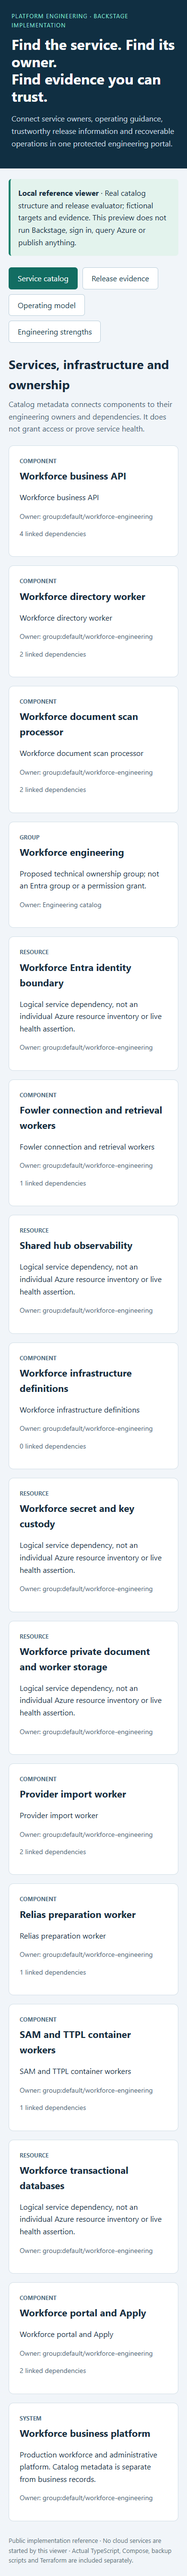
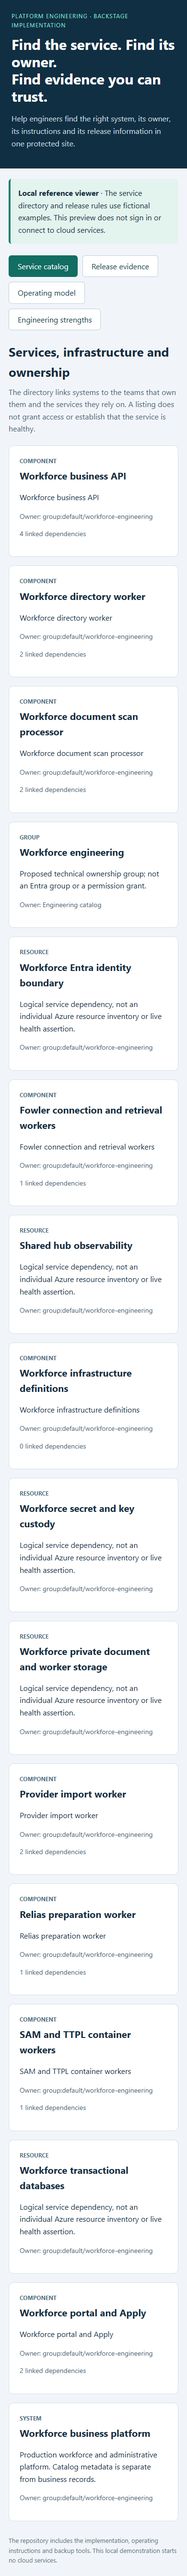
Lead with plain business explanations and retain technical detail separately

diff --git a/preview/index.html b/preview/index.html
@@ -1,6 +1,6 @@
 <!doctype html><html lang="en"><meta charset="utf-8"><meta name="viewport" content="width=device-width,initial-scale=1"><title>Engineering portal reference</title><style>
 *{box-sizing:border-box}body{margin:0;background:#f1f5f9;color:#172c3e;font:16px/1.6 system-ui,sans-serif}header{background:#102f42;color:white;padding:36px max(24px,calc((100vw - 1160px)/2))}header p{color:#c7d8e1;max-width:820px}h1{font-size:36px;line-height:1.2;margin:12px 0}main{max-width:1208px;margin:auto;padding:28px 24px}.tag{font-size:12px;letter-spacing:.09em;text-transform:uppercase;color:#89e2d1}.notice{background:#e3f3ed;border-left:4px solid #18816d;padding:16px;margin-bottom:24px;border-radius:6px}nav{display:flex;gap:10px;flex-wrap:wrap;margin:24px 0}button{font:inherit;border:1px solid #bdd0dc;background:white;color:#17394a;padding:9px 18px;border-radius:6px;cursor:pointer}button[aria-selected=true]{background:#126d62;color:white;border-color:#126d62}.cards{display:grid;grid-template-columns:repeat(3,1fr);gap:18px}.card{background:white;border:1px solid #d4e0e8;border-radius:10px;padding:22px;overflow-wrap:anywhere}.card h3{margin:5px 0 12px;font-size:20px}.kind{font-size:12px;font-weight:700;text-transform:uppercase;color:#4d6c7f}.meta{font-size:14px;color:#4b6474}.status{display:inline-block;padding:3px 10px;border-radius:20px;background:#e0f3e9;color:#186344;font-size:13px;font-weight:bold}.unknown{background:#edf0f3;color:#465866}.conflict{background:#fbe9e9;color:#913c3c}.stale{background:#fff1d6;color:#84601d}h2{margin:12px 0 8px;font-size:26px}.intro{color:#4b6474;margin:0 0 22px}.flow{display:flex;gap:12px;flex-wrap:wrap;align-items:center}.flow strong{background:#e6f2f3;padding:12px;border-radius:6px}footer{font-size:13px;color:#5d7380;margin-top:30px}section[hidden]{display:none}@media(max-width:850px){.cards{grid-template-columns:1fr 1fr}h1{font-size:30px}}@media(max-width:560px){.cards{grid-template-columns:1fr}header{padding:24px}main{padding:22px 18px}}
-</style><header><div class="tag">Platform engineering · Backstage implementation</div><h1>Find the service. Find its owner.<br>Find evidence you can trust.</h1><p>Connect service owners, operating guidance, trustworthy release information and recoverable operations in one protected engineering portal.</p></header><main><div class="notice"><strong>Local reference viewer</strong> · Real catalog structure and release evaluator; fictional targets and evidence. This preview does not run Backstage, sign in, query Azure or publish anything.</div><nav aria-label="Reference sections"><button aria-selected="true" data-tab="catalog">Service catalog</button><button aria-selected="false" data-tab="evidence">Release evidence</button><button aria-selected="false" data-tab="operations">Operating model</button><button aria-selected="false" data-tab="strengths">Engineering strengths</button></nav><section id="catalog"><h2>Services, infrastructure and ownership</h2><p class="intro">Catalog metadata connects components to their engineering owners and dependencies. It does not grant access or prove service health.</p><div id="entities" class="cards"></div></section><section id="evidence" hidden><h2>A successful build is not proof of deployment</h2><p class="intro">The evaluator compares the build and deployment records with a recent observation of the running release. All four examples below are fictional.</p><div id="results" class="cards"></div></section><section id="operations" hidden><h2>Controlled sessions, recoverable state</h2><p class="intro">The implemented single-VM profile balances an internal engineering portal with deliberate runtime and recovery controls.</p><div class="cards"><article class="card"><div class="kind">Access path</div><h3>Two identity layers</h3><p>HTTPS → Caddy → OAuth2 Proxy → Backstage. Microsoft sign-in checks the engineering group; backend permissions control which actions are allowed.</p></article><article class="card"><div class="kind">Persistent state</div><h3>Database + handbook</h3><p>PostgreSQL stays on the internal Docker network. TechDocs publications mount read-only. Protected credentials and TLS state recover separately.</p></article><article class="card"><div class="kind">Cost and recovery</div><h3>Start intentionally</h3><p>Preflight → pull pinned images → start → verify → back up → stop → deallocate. The backup timer never starts a VM.</p></article></div></section><section id="strengths" hidden><h2>Built to help engineers operate with confidence</h2><p class="intro">Each strength is backed by actual source. The local viewer does not claim fresh sign-in, deployment or recovery acceptance.</p><div class="cards"><article class="card"><div class="kind">Discovery</div><h3>Ownership with context</h3><p>Find the responsible team, linked dependencies and operating guidance instead of searching disconnected files.</p></article><article class="card"><div class="kind">Controlled access</div><h3>Separate read and write authority</h3><p>Sign-in, account matching and application permissions protect different steps. The optional writer stays separate and Off by default.</p></article><article class="card"><div class="kind">Release confidence</div><h3>Uncertainty stays visible</h3><p>Verified, Unknown, Conflict and Stale distinguish a current release from an assumption based on a green build.</p></article><article class="card"><div class="kind">Recovery</div><h3>Check more than the upload</h3><p>Database inventories, file hashes, off-host copies and an isolated restore helper make recovery inspectable.</p></article><article class="card"><div class="kind">Runtime</div><h3>Repeatable startup</h3><p>Fixed container versions, protected configuration files and startup checks catch known mistakes before the portal starts.</p></article><article class="card"><div class="kind">Operating footprint</div><h3>Start for a purpose</h3><p>On-demand engineering sessions and explicit deallocation limit compute use while making retained costs visible.</p></article></div></section><footer>Public implementation reference · No cloud services are started by this viewer · Actual TypeScript, Compose, backup scripts and Terraform are included separately.</footer></main><script>
+</style><header><div class="tag">Platform engineering · Backstage implementation</div><h1>Find the service. Find its owner.<br>Find evidence you can trust.</h1><p>Help engineers find the right system, its owner, its instructions and its release information in one protected site.</p></header><main><div class="notice"><strong>Local reference viewer</strong> · The service directory and release rules use fictional examples. This preview does not sign in or connect to cloud services.</div><nav aria-label="Reference sections"><button aria-selected="true" data-tab="catalog">Service catalog</button><button aria-selected="false" data-tab="evidence">Release evidence</button><button aria-selected="false" data-tab="operations">Operating model</button><button aria-selected="false" data-tab="strengths">Engineering strengths</button></nav><section id="catalog"><h2>Services, infrastructure and ownership</h2><p class="intro">The directory links systems to the teams that own them and the services they rely on. A listing does not grant access or establish that the service is healthy.</p><div id="entities" class="cards"></div></section><section id="evidence" hidden><h2>A successful build is not proof of deployment</h2><p class="intro">The evaluator compares the build and deployment records with a recent observation of the running release. All four examples below are fictional.</p><div id="results" class="cards"></div></section><section id="operations" hidden><h2>Planned access and recoverable records</h2><p class="intro">The portal uses one server, with separate access checks, backups and operating instructions.</p><div class="cards"><article class="card"><div class="kind">Access path</div><h3>Two identity layers</h3><p>Microsoft sign-in checks the approved engineering group. The application then checks which actions the person may perform.</p></article><article class="card"><div class="kind">Persistent state</div><h3>Database + handbook</h3><p>The portal database stays on an internal network. Published handbook files are read-only. Protected sign-in settings and certificates need their own recovery process.</p></article><article class="card"><div class="kind">Cost and recovery</div><h3>Start intentionally</h3><p>Check settings, start the tested version, verify it, back it up, then stop and release the server allocation. The backup timer does not start the server.</p></article></div></section><section id="strengths" hidden><h2>Built to help engineers operate with confidence</h2><p class="intro">The repository includes the related code. This local viewer demonstrates the ideas without repeating live sign-in, release or recovery tests.</p><div class="cards"><article class="card"><div class="kind">Discovery</div><h3>Ownership with context</h3><p>Find the responsible team, linked dependencies and operating guidance instead of searching disconnected files.</p></article><article class="card"><div class="kind">Controlled access</div><h3>Separate read and write authority</h3><p>Sign-in, account matching and application permissions protect different steps. The optional writer stays separate and Off by default.</p></article><article class="card"><div class="kind">Release confidence</div><h3>Uncertainty stays visible</h3><p>Verified, Unknown, Conflict and Stale distinguish a current release from an assumption based on a green build.</p></article><article class="card"><div class="kind">Recovery</div><h3>Check more than the upload</h3><p>Backup contents and file fingerprints can be checked, with copies kept away from the server and tools for a separate restore test.</p></article><article class="card"><div class="kind">Runtime</div><h3>Repeatable startup</h3><p>Fixed container versions, protected configuration files and startup checks catch known mistakes before the portal starts.</p></article><article class="card"><div class="kind">Operating footprint</div><h3>Start for a purpose</h3><p>Run the server for planned engineering sessions, then release its compute allocation. Retained disks and other resources can still cost money.</p></article></div></section><footer>The repository includes the implementation, operating instructions and backup tools. This local demonstration starts no cloud services.</footer></main><script>
 document.querySelectorAll('nav button').forEach(button=>button.addEventListener('click',()=>{document.querySelectorAll('nav button').forEach(b=>b.setAttribute('aria-selected',String(b===button)));document.querySelectorAll('main section').forEach(s=>s.hidden=s.id!==button.dataset.tab)}));
 function element(tag,text,cls){const e=document.createElement(tag);e.textContent=text;if(cls)e.className=cls;return e}
 fetch('/data.json').then(r=>{if(!r.ok)throw Error('Reference data unavailable');return r.json()}).then(data=>{for(const obj of data.entities){const card=element('article','','card');card.append(element('div',obj.kind,'kind'),element('h3',obj.metadata.title||obj.metadata.name),element('p',obj.metadata.description||'Technical platform catalog entity.'));card.append(element('p','Owner: '+(obj.spec.owner||'Engineering catalog'),'meta'));if(obj.spec.dependsOn)card.append(element('p',obj.spec.dependsOn.length+' linked dependencies','meta'));document.getElementById('entities').append(card)}for(const row of data.evidence){const card=element('article','','card');card.append(element('div',row.state,'status '+row.state),element('h3',row.scenario),element('p',row.componentRef,'meta'),element('p',row.state==='verified'?'Fictional current receipt and readback agree.':row.state==='unknown'?'Current publication cannot be established.':row.state==='conflict'?'Evidence does not agree; verification refused.':'Observation exceeds the accepted age.'));document.getElementById('results').append(card)}}).catch(error=>document.getElementById('entities').append(element('p',error.message)));

diff --git a/README.md b/README.md
@@ -1,6 +1,6 @@
 # Backstage Developer Portal on Azure
 
-**Connect service ownership, engineering guidance, trustworthy release information and recovery in one protected portal.**
+**Give engineers one place to find systems, their owners, operating instructions and release information.**
 
 [Business problem](#the-business-problem) · [Solution](#the-solution) · [Engineering strengths](#engineering-strengths) · [What was built](#what-was-built) · [Proof it works](#proof-it-works) · [Commands](docs/COMMANDS.md)
 
@@ -8,78 +8,68 @@
 
 ## The Business Problem
 
-As the platform grew, information about applications, background jobs, storage and recovery was spread across different places. Engineers needed a clear way to find who owned each part, how it worked and which version was running. The engineering portal also needed protected access and reliable backups.
+As the platform grew, information about applications, background tasks, storage and recovery became harder to find. Engineers needed to know who owned a system, how to operate it and which version was running.
+
+The site holding that information also needed protected access and reliable backups.
 
 ## The Solution
 
-Use Backstage to bring the service list, engineering handbook and release information together. Run the portal separately from the employee application, restrict engineer access with Microsoft sign-in, and save its database and handbook outside the server.
+I built an internal engineering portal using Backstage. It brings together a service directory, an engineering handbook and release information. Approved engineers sign in through Microsoft.
 
-**Business outcome:** Engineers have a clearer path from “what runs this service?” to its owner, operating instructions and release evidence. The portal has its own access and recovery controls, so it can support engineering work without becoming another route into employee records.
+**Business outcome:** Engineers can move from a system's name to its owner, instructions and release records in one place. The portal runs separately from the employee application and has its own backup and access controls.
 
 ## Engineering Strengths
 
-The portal connects discovery, controlled access and day-to-day operations. Each strength has an explicit purpose and supporting implementation.
-
-| Strength | Why it matters | Evidence in this project |
+| Capability | Why it matters | Details |
 | --- | --- | --- |
-| **A service catalog with ownership and dependencies** | Engineers can find who maintains a component and what it relies on before changing it or investigating a failure. | [Catalog entities](catalog/) and [catalog checks](tests/test_catalog.py) |
-| **Operating guidance beside the service** | TechDocs gives engineers a consistent place to find the handbook instead of searching disconnected files. The portal can read the published handbook but cannot change those files. | [Catalog and TechDocs](docs/CATALOG-AND-TECHDOCS.md) |
-| **Engineer access with explicit permissions** | Microsoft sign-in checks the engineer group, the backend matches the account, and application permissions control which actions are allowed. Optional template writing uses a separate identity and stays Off by default. | [Identity design](docs/IDENTITY.md) and [permission policy](reference/backend/permissionPolicy.ts) |
-| **Release status that refuses false certainty** | Missing, conflicting or old observations stay Unknown, Conflict or Stale. A green build is not presented as proof that a release is running. | [Actual evaluator](reference/releases/evaluate.py) and nine original tests |
-| **Recovery designed into operations** | Database inventories, checksums, off-host copies and an isolated restore helper make recovery inspectable. Handbook archives are downloaded again and verified. | [Recovery process](docs/RECOVERY.md) and [restore helper](runtime/vm/check-restore.sh) |
-| **Repeatable and cautious startup** | Fixed container versions, protected configuration files and startup checks catch known mistakes before the portal starts. Only the HTTPS edge publishes a port. | [Preflight](runtime/vm/preflight.py) and [Compose checks](runtime/vm/check-compose.py) |
-| **An intentional operating footprint** | The on-demand VM model fits occasional engineering sessions. Backup timers do not wake a stopped VM; shutdown and deallocation are explicit operating steps. | [Operations](docs/OPERATIONS.md) and [scaling/costs](docs/SCALING.md) |
-
-![Engineering strengths in the local reference viewer](docs/images/05-strengths.png)
-
-[How these strengths work together](docs/ENGINEERING-STRENGTHS.md) explains the practical value, source evidence and limits of each choice. The portal is a single-VM design, not a claim of high availability or measured recovery times.
+| A directory of systems and owners | Helps engineers find the responsible team and related services. | [Service directory](catalog/) |
+| Instructions beside each service | Makes operating guidance easier to find. | [Handbook](docs/CATALOG-AND-TECHDOCS.md) |
+| Separate access checks | Distinguishes signing in from permission to read or change something. | [Access guide](docs/IDENTITY.md) |
+| Honest release status | Shows when records are missing, conflicting or too old to trust. | [Release guide](docs/RELEASE-EVIDENCE.md) |
+| Checked backups | Supports recovery beyond merely uploading a backup file. | [Recovery guide](docs/RECOVERY.md) |
+| Planned operating sessions | Keeps occasional engineering use separate from an always-running service. | [Operations](docs/OPERATIONS.md) |
 
 ### Actual implementation and public reference
 
-This project includes the platform’s service list, startup and permission checks, Microsoft sign-in settings, container settings, backup tools, release checks and related Terraform. Identifying names, domains and target IDs use consistent examples. [Source mapping](docs/SOURCE-MAP.md).
-
-The local preview is a small new reference viewer, **not the Backstage application**. It reads the actual catalog structure and runs the actual Python release evaluator on fictional evidence. It requires no cloud credentials, login or provider call. Full private application dependencies, engineer rosters and secrets are deliberately outside this public example.
+The repository includes selected implementation code and a small local demonstration. The demonstration is not the full Backstage application; its example systems and release records are fictional.
 
 ## Architecture
 
 ```mermaid
 flowchart LR
-  Engineer[Engineer browser] -->|HTTPS 443| Caddy[Caddy TLS edge]
-  Caddy -->|Forward authentication| Proxy[OAuth2 Proxy]
-  Proxy <-->|Separate ingress application / group gate| Entra[Microsoft Entra ID]
-  Caddy --> Backend[Backstage frontend + backend]
-  Backend <-->|Backend Microsoft provider / exact user mapping| Entra
-  Backend --> Policy[Read-oriented engineer permission policy]
-  Backend --> Catalog[Catalog and ownership]
-  Backend --> Docs[Read-only published TechDocs]
-  Backend --> PG[(PostgreSQL / internal Docker network)]
-  Evidence[Verified release records] --> Reader[Limited release reader]
-  Reader --> Backend
-  Backup[Pause writes and create verified backup] -->|VM managed identity| Blob[Restricted Blob backup container]
-  PG --> Backup
-  Docs --> Backup
+  Engineer[Approved engineer] --> SignIn[Microsoft sign-in]
+  SignIn --> Portal[Engineering portal]
+  Portal --> Directory[Systems and owners]
+  Portal --> Handbook[Operating instructions]
+  Portal --> Release[Release information]
+  Portal --> Database[Portal database]
+  Database --> Backup[Protected backup copies]
+  Handbook --> Backup
 ```
 
-Only the edge publishes port 443. PostgreSQL has no host port; Backstage and the proxy are reached through Docker networks. The chosen backup path uses a Storage service endpoint plus default-deny network rules and identity authorization. **It is not a deployed private endpoint.**
-
-The source also describes disabled managed-service alternatives. They are not the running VM architecture and are not commissioned by this repository. [Architecture and boundaries](docs/ARCHITECTURE.md).
+The deployed design uses one virtual server. A server failure can interrupt the portal, so backup and recovery remain important.
 
 ## What Was Built
 
-| Component | Purpose | Actual source |
-| --- | --- | --- |
-| Software catalog | Model services, resources, owners and dependencies | [Entities](catalog/) |
-| Backend startup boundary | Confirm whether the portal will run locally or in Azure, and require the matching settings | [Startup](reference/backend/index.ts) |
-| Engineering permissions | Allow approved engineers to read; require explicit permission for changes and template actions | [Policy](reference/backend/permissionPolicy.ts) |
-| Entra sign-in | Separate ingress and backend applications; map backend identity to catalog user annotation | [Configuration](reference/config/app-config.production.yaml) |
-| Four-service VM runtime | Edge, identity proxy, portal and private PostgreSQL network | [Compose](runtime/vm/compose.yaml) |
-| Safe startup checks | Reject mutable images, shared identity apps and exposed/missing secret files | [Preflight](runtime/vm/preflight.py) |
-| Release evaluator | Check that the release report, source version, saved file and current hosted version agree | [Evaluator](reference/releases/evaluate.py) |
-| Recoverable portal state | Tools to save a database backup, check its contents and practise restoring it separately | [Backup](runtime/vm/backup-postgres.sh) · [Restore](runtime/vm/check-restore.sh) |
-| Published handbook backup | Archive one saved publication tied to one exact version and verify downloaded file hashes | [TechDocs backup](runtime/vm/backup-techdocs.sh) |
-| VM infrastructure | Server access by key, HTTPS network rules, scheduled shutdown, limited image downloads and an optional backup location | [Terraform](infra/) |
+- A directory connecting systems to their owners and dependencies.
+- A handbook published separately from the portal that displays it.
+- Microsoft sign-in and application permission checks.
+- Release checks that compare the intended version with current deployment records.
+- Startup checks, database backups and tools for testing recovery.
+- Related Azure setup code and operating instructions.
+
+[Technical design](docs/ARCHITECTURE.md) and [source records](docs/SOURCE-MAP.md) explain the included implementation.
 
 ## Proof It Works
+
+Recorded checks included **nine release-status tests**, **ten startup tests on Linux**, **five directory checks** and **two infrastructure cases using simulated Azure responses**.
+
+The local viewer displayed 16 service-directory entries and all four release states: Verified, Unknown, Conflict and Stale. Its navigation and mobile layout were also checked.
+
+These results concern the included examples and selected code. They are separate from a new live sign-in, deployment or recovery rehearsal. [Full validation record](docs/VALIDATION.md).
+
+<details>
+<summary>For engineers: detailed results, examples and commands</summary>
 
 ### 1. Refuse incomplete or conflicting release evidence
 
@@ -120,31 +110,30 @@ python -B scripts/preview.py
 
 Open [the local reference viewer](http://127.0.0.1:8136). Switch between Service catalog, Release evidence and Operating model. Ctrl+C stops it. The screenshots are genuine local captures of this reference, not screenshots of the live Backstage portal. [Validation and scope](docs/VALIDATION.md).
 
+</details>
+
 ## Release and Recovery Process
 
-1. Build and test the selected complete Backstage workspace with its locked Node/Yarn/native-module combination.
-2. Scan the selected image and promote its exact registry digest; do not equate source HEAD with the deployed image.
-3. Prepare protected host inputs separately. Preflight the runtime before starting the stack.
-4. Verify trusted HTTPS, allowed engineer sign-in, denied nonmember access, catalog, handbook and database health.
-5. Back up plugin databases and handbook publications, verify off-host bytes and rehearse restoration separately.
-6. Stop the session and deallocate the VM; keep retained disk/IP/storage costs visible.
+1. Build and test the chosen version.
+2. Check its software security findings and use that exact version for release.
+3. Check the server settings before starting the portal.
+4. Confirm approved sign-in, service listings, handbook access and database health.
+5. Save and verify backups, and test restoration separately.
+6. End the engineering session and release the server's compute allocation.
 
-The Dockerfile here is an actual build recipe excerpt. It expects full-workspace skeleton/bundle archives and the lockfile that this public subset does not contain. No new image build or live upgrade is claimed. [Deployment detail](docs/DEPLOYMENT.md).
+[Deployment steps](docs/DEPLOYMENT.md) and [recovery steps](docs/RECOVERY.md) provide the technical instructions.
 
 ## Security and Operational Boundaries
 
-- Microsoft sign-in, account matching, application permissions and Azure service identities protect different parts of the system.
-- A catalog ownership group is metadata, not an Entra membership or access grant.
-- Compose secrets mount protected host files; this does not itself make them Key Vault-backed.
-- The optional template writer uses a separate identity/key and approved actions; it is Off in the default profile. Catalog reads do not require a general repository writer.
-- The portal is not the business API, employee database, SIEM or an automatic production deployer.
-- A completed backup upload is not sufficient recovery proof. Preserve credentials/TLS state through a separate protected recovery process.
+Signing in does not automatically grant permission to change services or publish software. The service directory also describes ownership; it does not itself grant access.
+
+The local demonstration does not connect to the employee database or run a production deployment. Restoring the portal requires its configuration and protected credentials as well as the database backup.
 
 ## Scaling, Costs and Tradeoffs
 
-One VM keeps occasional engineering sessions simple to operate, but a VM failure can interrupt the whole portal. Consistent backups also require brief backend pauses. Deallocation stops compute billing, not disk, static IP, registry or backup storage charges. A shutdown schedule is a safety net, not a spending cap.
+One server is straightforward to operate for occasional engineering sessions, but it does not provide continuous availability during a server failure. Backups also require brief pauses to database writes.
 
-Scale from measured catalog/search latency, documentation access, database growth and concurrent engineers. Managed PostgreSQL, external private TechDocs storage, multiple backend instances and shared sessions require coordinated networking, identity and recovery work; they are not live features of this reference. [Scaling and tradeoffs](docs/SCALING.md).
+Releasing the server's compute allocation stops that compute charge. Retained disks, addresses and storage can still cost money. For sustained use, measure response times and the number of engineers before considering more servers or managed database services. [Growth options](docs/SCALING.md).
 
 ## Project Guides
 

diff --git a/docs/VALIDATION.md b/docs/VALIDATION.md
@@ -1,4 +1,4 @@
-# Local validation â€” November 6, 2026
+# Local validation - November 6, 2026
 
 **Terms used here:** A fixture is test data or a test setup used instead of real business records.
 
@@ -44,3 +44,15 @@ scripts remained unchanged; this pass changed text and screenshots only.
 
 These browser checks did not repeat cloud acceptance or the earlier code tests.
 No Azure service, Gmail account, provider session or hosted Actions run was used.
+
+## Plain-language review - November 7, 2026
+
+The main overview now starts with the business problem, the solution and the
+practical outcome. Technical commands and detailed results remain available in
+expandable sections and linked guides. Links, heading anchors, formatting and
+expandable sections were checked. Earlier code-test and cloud results remain
+historical; this wording pass did not repeat those tests.
+
+The fictional preview was also simplified, its screenshots refreshed, and its
+desktop tabs and 390-pixel mobile layout checked locally. Browser requests were
+restricted to the local preview; HTML structure and embedded scripts were unchanged.
